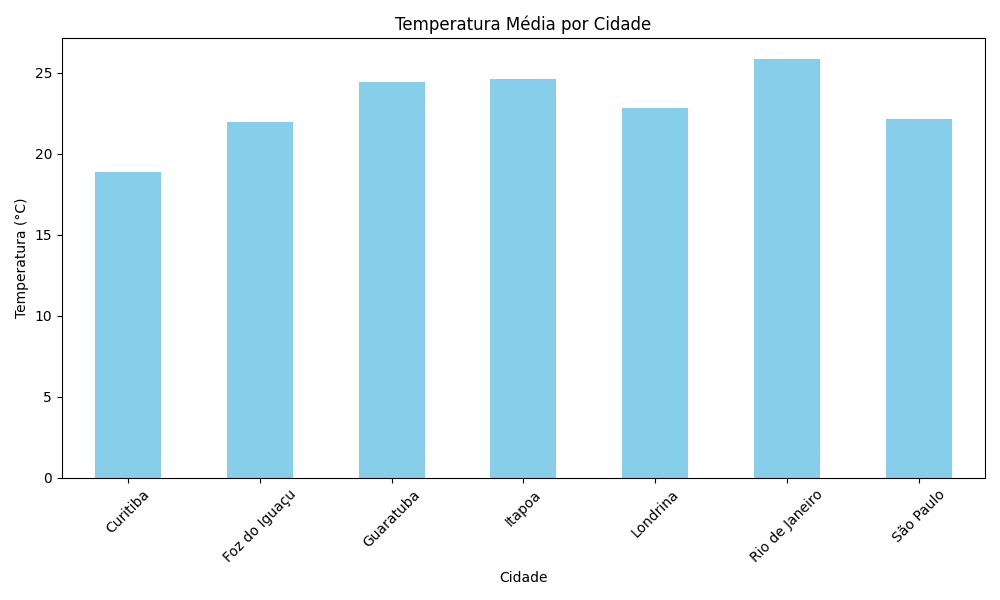
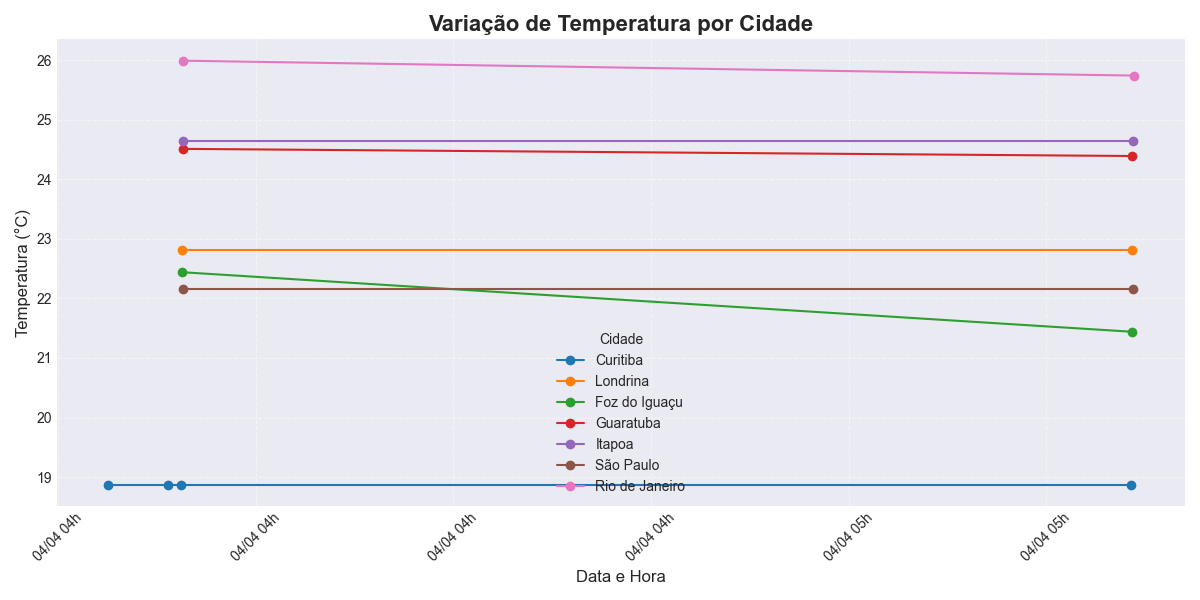
Commits melhor graficos

diff --git a/scripts/analyze.py b/scripts/analyze.py
@@ -1,35 +1,46 @@
 import pandas as pd
 import matplotlib.pyplot as plt
+import matplotlib.dates as mdates
 
 
 df = pd.read_csv("../data/dados_clima.csv")
-
 df["DATA_HORA"] = pd.to_datetime(df["DATA_HORA"])
 
+plt.style.use("seaborn-v0_8-dark")
 
-df = df.sort_values(by="DATA_HORA")
+fig, ax = plt.subplots(figsize=(12, 6))
 
-# ----------- Gráfico 1: Temperatura média por cidade -----------
-plt.figure(figsize=(10, 6))
-df.groupby("CIDADE")["TEMPERATURA"].mean().plot(kind="bar", color="skyblue")
-plt.title("Temperatura Média por Cidade")
-plt.ylabel("Temperatura (°C)")
-plt.xlabel("Cidade")
+for cidade in df["CIDADE"].unique():
+    dados_cidade = df[df["CIDADE"] == cidade]
+    ax.plot(dados_cidade["DATA_HORA"], dados_cidade["TEMPERATURA"], marker="o", label=cidade)
+
+ax.set_title("Variação de Temperatura por Cidade", fontsize=16, weight='bold')
+ax.set_xlabel("Data e Hora", fontsize=12)
+ax.set_ylabel("Temperatura (°C)", fontsize=12)
+ax.xaxis.set_major_formatter(mdates.DateFormatter('%d/%m %Hh'))
 plt.xticks(rotation=45)
+ax.grid(True, linestyle="--", alpha=0.5)
+ax.legend(title="Cidade")
+
 plt.tight_layout()
 plt.savefig("../images/grafico_temperatura_media.png")
 plt.show()
 
-# ----------- Gráfico 2: Variação de temperatura ao longo do tempo por cidade -----------
-plt.figure(figsize=(12, 6))
-for cidade in df["CIDADE"].unique():
-    cidade_df = df[df["CIDADE"] == cidade]
-    plt.plot(cidade_df["DATA_HORA"], cidade_df["TEMPERATURA"], label=cidade)
+# ----------- Gráfico 2: Variação de Umidade por Cidade -----------
+fig, ax = plt.subplots(figsize=(12, 6))
 
-plt.title("Variação de Temperatura ao Longo do Tempo")
-plt.ylabel("Temperatura (°C)")
-plt.xlabel("Data e Hora")
-plt.legend()
+for cidade in df["CIDADE"].unique():
+    dados_cidade = df[df["CIDADE"] == cidade]
+    ax.plot(dados_cidade["DATA_HORA"], dados_cidade["UMIDADE"], marker="s", label=cidade)
+
+ax.set_title("Variação de Umidade por Cidade", fontsize=16, weight='bold')
+ax.set_xlabel("Data e Hora", fontsize=12)
+ax.set_ylabel("Umidade (%)", fontsize=12)
+ax.xaxis.set_major_formatter(mdates.DateFormatter('%d/%m %Hh'))
+plt.xticks(rotation=45)
+ax.grid(True, linestyle="--", alpha=0.5)
+ax.legend(title="Cidade")
+
 plt.tight_layout()
 plt.savefig("../images/grafico_variacao_temperatura.png")
 plt.show()

diff --git a/scripts/aaa.py b/scripts/aaa.py
@@ -1,0 +1,2 @@
+import matplotlib.pyplot as plt
+print(plt.style.available)
